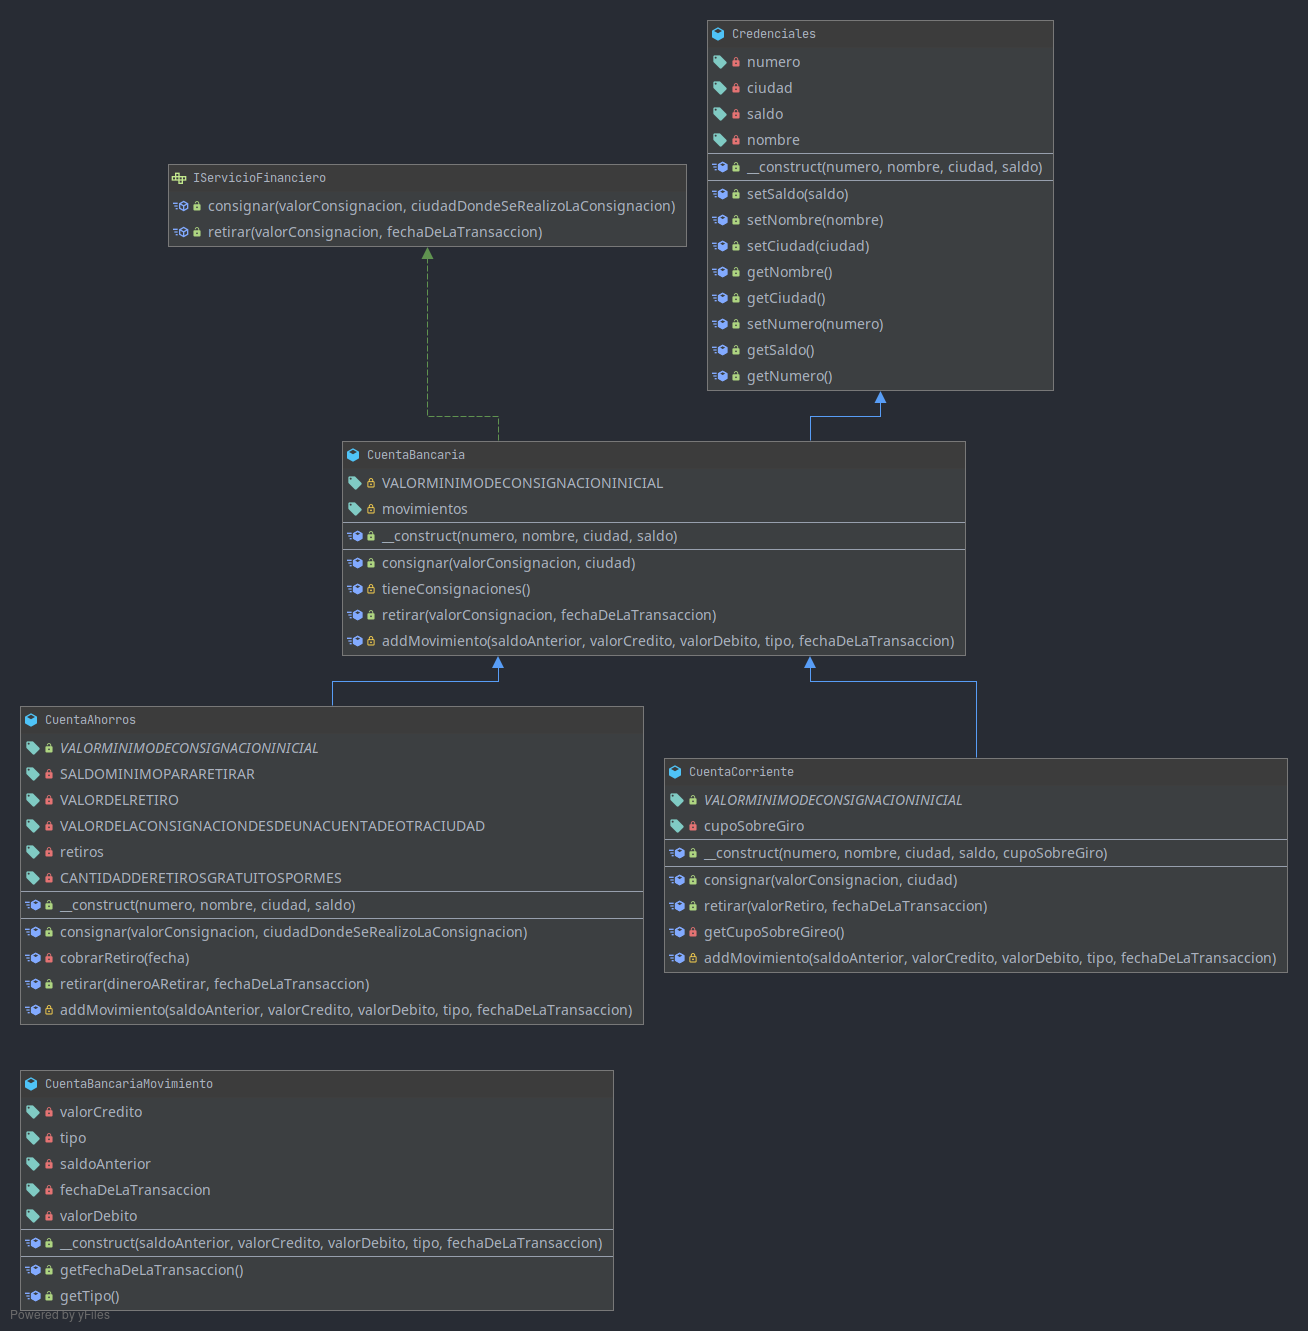
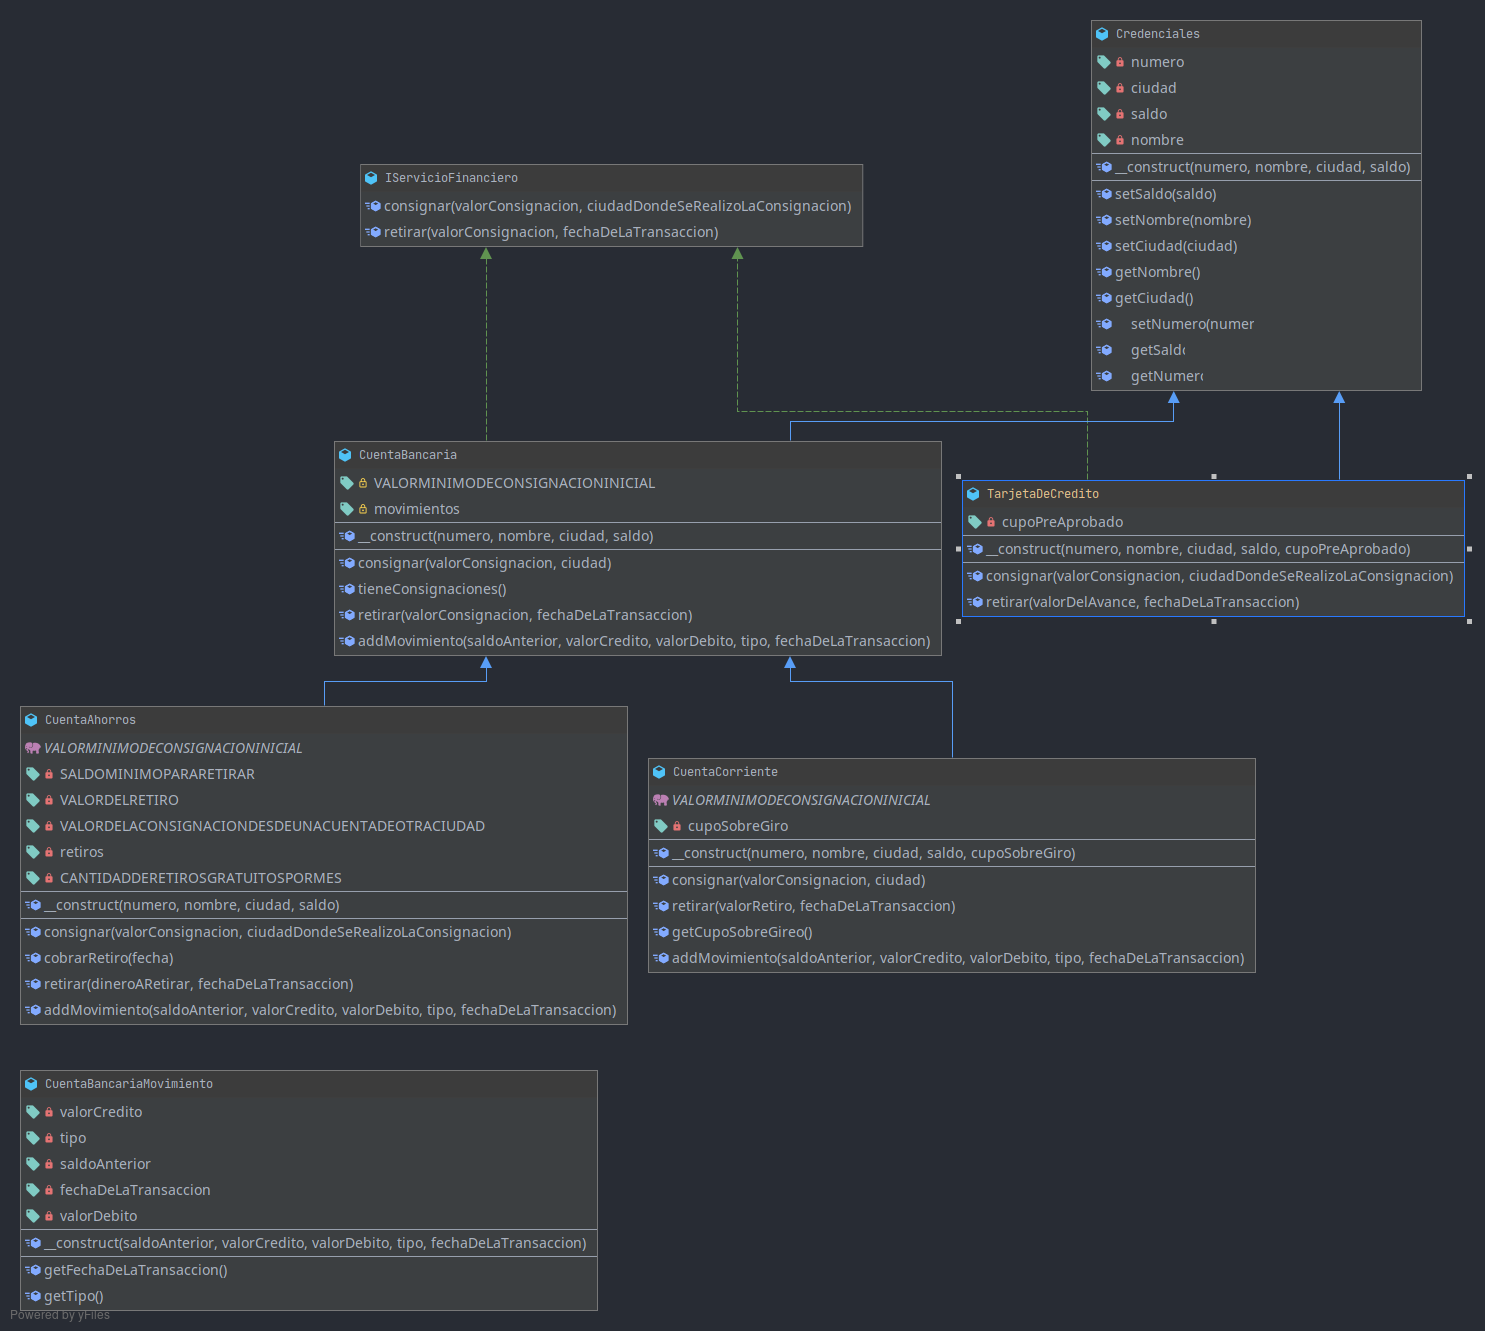
Cuentas de bancarias ahorros y corrientes - Consignaciones y retiros

diff --git a/test/src/Banco/Domain/TarjetaDeCreditoTest.php b/test/src/Banco/Domain/TarjetaDeCreditoTest.php
@@ -74,4 +74,25 @@ class TarjetaDeCreditoTest extends  TestCase
       }
 
 
+      /*
+       *
+        Escenario:  Valor del avance menor o igual a cero.
+        HU 6. Como Usuario quiero realizar retiros (avances) a una cuenta de crédito para retirar dinero en forma de avances del servicio de crédito.
+        Criterio de Aceptación:
+         6.1 El valor del avance debe ser mayor a 0
+        Dado
+        El cliente tiene una tarjeta de crédito Número 4508-0356-0456-0125
+        , Nombre “Cuenta Ejemplo”,Ciudad Valledupar Saldo de $200000, cupo preaprobado $2,000,000.00
+        Cuando
+        va retirar $0
+        Entonces
+        El sistema presentará el mensaje. “El valor del avance es incorrecto”
+       */
+       public function testValorDelAvanceMenorOIgualACero(){
+           $tarjeta = new TarjetaDeCredito('4508-0356-0456-0125','Cuenta Ejemplo','Valledupar',200000,2000000);
+           $resultado = $tarjeta->consignar(200000,'Valledupar');
+           $this->assertEquals('Su Nuevo Saldo es de $0.00 pesos m/c y el cupo esta por $2,000,000.00',$resultado);
+       }
+
+
 }

diff --git a/src/Banco/Domain/TarjetaDeCredito.php b/src/Banco/Domain/TarjetaDeCredito.php
@@ -21,12 +21,13 @@ class TarjetaDeCredito extends Credenciales implements IServicioFinanciero
 
        $this->setSaldo($this->getSaldo()-$valorConsignacion);
 
-       return sprintf('Su Nuevo Saldo es de $%s pesos m/c y el cupo esta por $%s',number_format($this->getSaldo(),2),number_format($this->cupoPreAprobado,2));
+       return sprintf('Su Nuevo Saldo es de $%s pesos m/c y el cupo esta por $%s',number_format($this->getSaldo(),2),number_format($this->cupoPreAprobado-$this->getSaldo(),2));
 
     }
 
-    public function retirar(float $valorConsignacion, \DateTime $fechaDeLaTransaccion): string
+    public function retirar(float $valorDelAvance, \DateTime $fechaDeLaTransaccion): string
     {
-        // TODO: Implement retirar() method.
+        if($valorDelAvance <= 0)
+            return 'El valor del avance es incorrecto';
     }
 }
